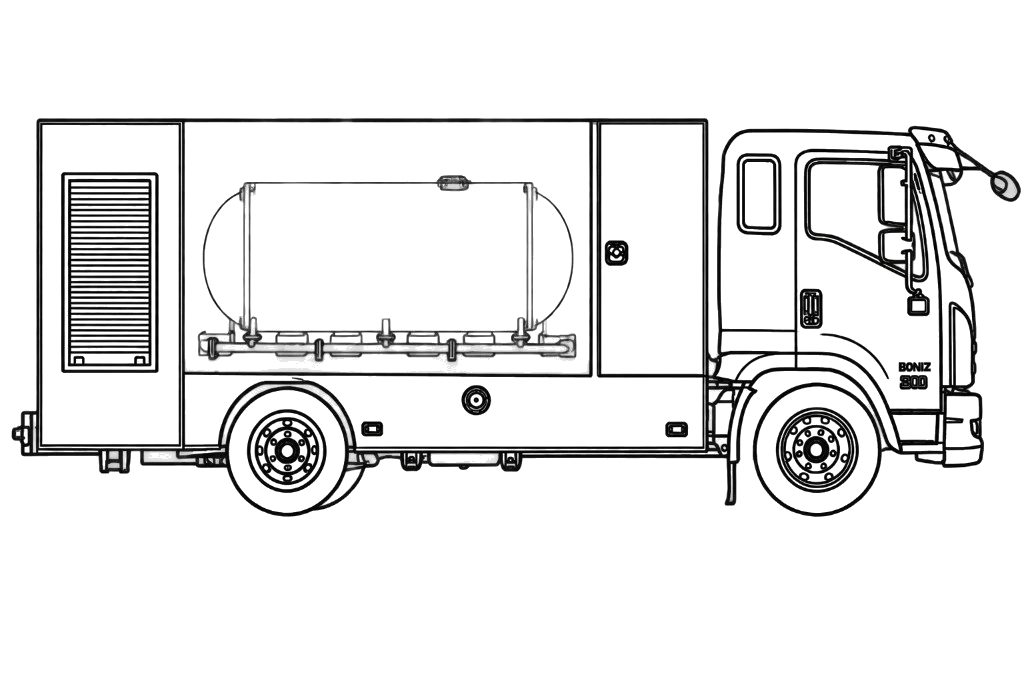
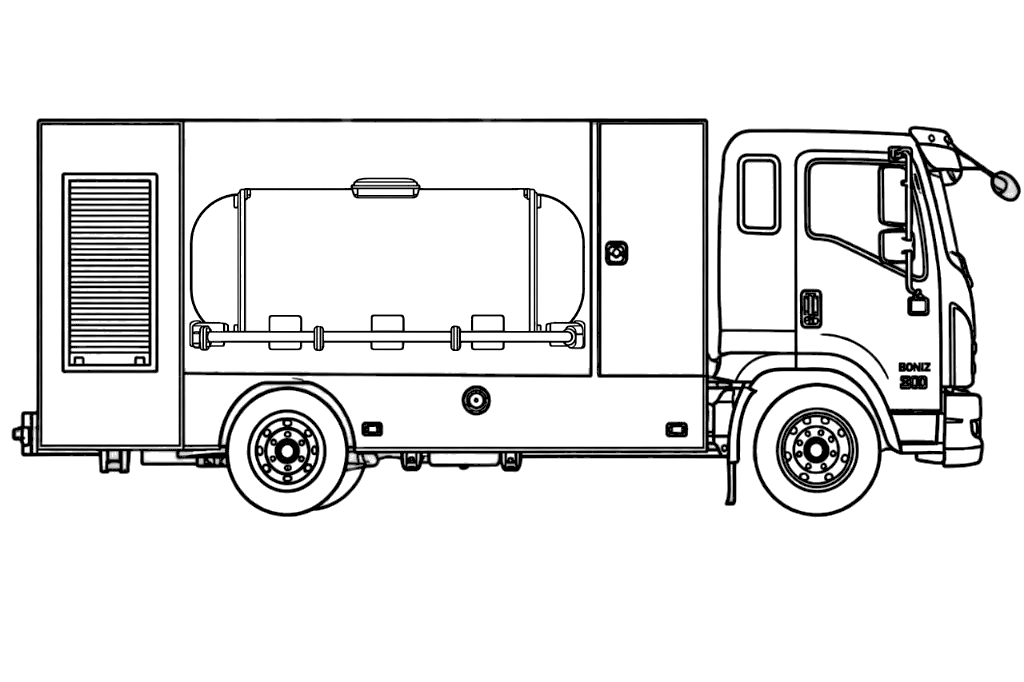
Enhance FuelTank Component with Rounded Corner Support
- Added optional `endRx` prop to the FuelTank component for customizable corner radii.
- Updated capsulePath function to accommodate rounded corners based on `endRx`.
- Modified FuelTankBank to pass `endRx` values for individual tank slots.
- Adjusted layout constants for the SINGLE_TANK_SLOTS to include corner radius specifications.

diff --git a/packages/web-ui/src/cars/fuel-truck/FuelTank.tsx b/packages/web-ui/src/cars/fuel-truck/FuelTank.tsx
@@ -6,6 +6,8 @@ export type FuelTankProps = {
   cy: number
   rx: number
   ry: number
+  /** Corner radius. Semicircular ends when omitted. */
+  endRx?: number
   capacity: number
   filled: number
 }
@@ -17,6 +19,7 @@ export function FuelTank({
   cy,
   rx,
   ry,
+  endRx,
   capacity,
   filled,
 }: FuelTankProps) {
@@ -38,7 +41,15 @@ export function FuelTank({
       <defs>
         <clipPath id={clipId}>
           {isCapsule ? (
-            <path d={capsulePath(cx, cy, rx, ry)} />
+            <path
+              d={capsulePath({
+                cx,
+                cy,
+                rx,
+                ry,
+                endRx: endRx ?? ry,
+              })}
+            />
           ) : (
             <ellipse cx={cx} cy={cy} rx={rx} ry={ry} />
           )}
@@ -84,21 +95,31 @@ export function FuelTank({
   )
 }
 
-/** Horizontal stadium: flat top/bottom with semicircular ends. */
-function capsulePath(cx: number, cy: number, rx: number, ry: number) {
+/** Flat sides with rounded corners. `endRx === ry` is a semicircular end. */
+function capsulePath(shape: {
+  cx: number
+  cy: number
+  rx: number
+  ry: number
+  endRx: number
+}) {
+  const { cx, cy, rx, ry, endRx } = shape
   const left = cx - rx
   const right = cx + rx
   const top = cy - ry
   const bottom = cy + ry
-  const flatStart = left + ry
-  const flatEnd = right - ry
+  const radius = Math.min(endRx, rx, ry)
 
   return [
-    `M ${flatStart} ${top}`,
-    `H ${flatEnd}`,
-    `A ${ry} ${ry} 0 0 1 ${flatEnd} ${bottom}`,
-    `H ${flatStart}`,
-    `A ${ry} ${ry} 0 0 1 ${flatStart} ${top}`,
+    `M ${left + radius} ${top}`,
+    `H ${right - radius}`,
+    `A ${radius} ${radius} 0 0 1 ${right} ${top + radius}`,
+    `V ${bottom - radius}`,
+    `A ${radius} ${radius} 0 0 1 ${right - radius} ${bottom}`,
+    `H ${left + radius}`,
+    `A ${radius} ${radius} 0 0 1 ${left} ${bottom - radius}`,
+    `V ${top + radius}`,
+    `A ${radius} ${radius} 0 0 1 ${left + radius} ${top}`,
     'Z',
   ].join(' ')
 }

diff --git a/packages/web-ui/src/cars/fuel-truck/layout.ts b/packages/web-ui/src/cars/fuel-truck/layout.ts
@@ -44,11 +44,10 @@ export const TANK_SLOTS = [
 ] as const
 
 /**
- * Horizontal capsule on the one-tank schematic.
- * Measured just inside the printed outline so liquid reaches the ink.
+ * One-tank interior. Rounded rectangle tight to the printed corners.
  */
 export const SINGLE_TANK_SLOTS = [
-  { cx: 387.5, cy: 254, rx: 182, ry: 73 },
+  { cx: 387, cy: 260, rx: 196, ry: 71, endRx: 40 },
 ] as const
 
 export type TankSlot = {
@@ -56,6 +55,8 @@ export type TankSlot = {
   cy: number
   rx: number
   ry: number
+  /** Corner radius. Semicircular ends when omitted. */
+  endRx?: number
   filled: number
   index: number
 }

diff --git a/packages/web-ui/src/cars/fuel-truck/FuelTankBank.tsx b/packages/web-ui/src/cars/fuel-truck/FuelTankBank.tsx
@@ -25,6 +25,7 @@ export function FuelTankBank({ capacity, filled, idPrefix }: FuelTankBankProps) 
             cy={slot.cy}
             rx={slot.rx}
             ry={slot.ry}
+            endRx={slot.endRx}
             capacity={capacity}
             filled={slot.filled}
           />
